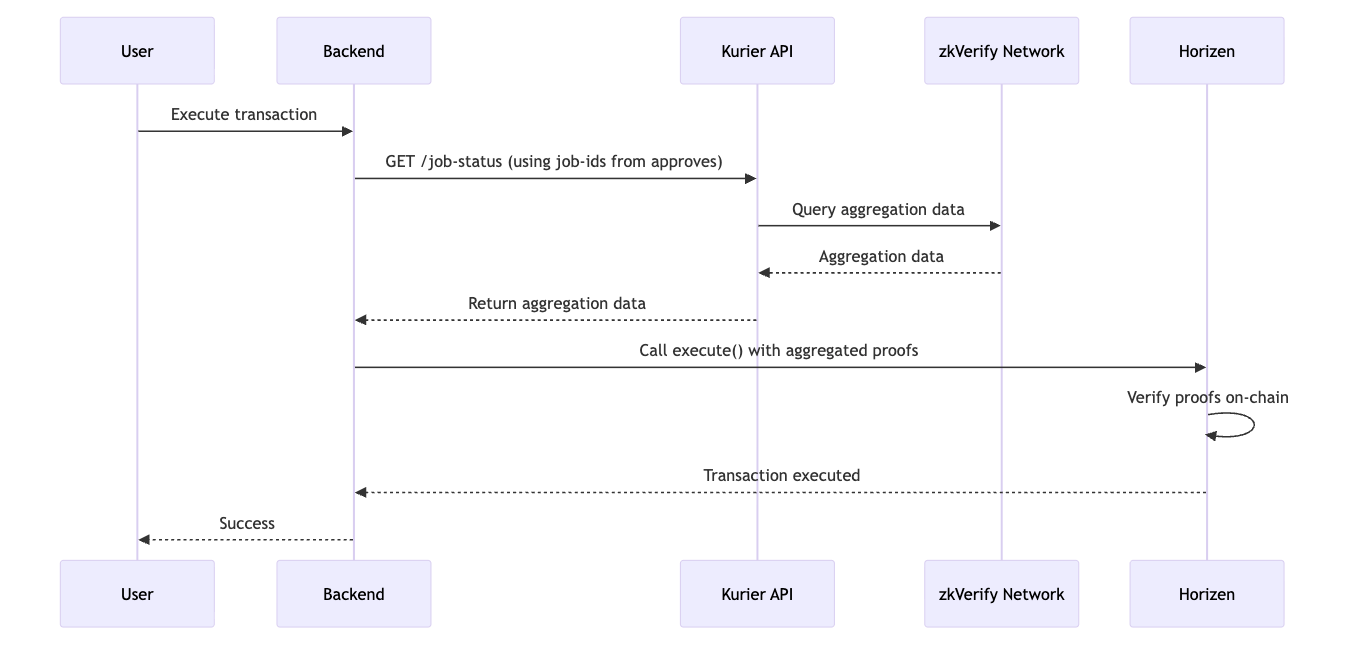
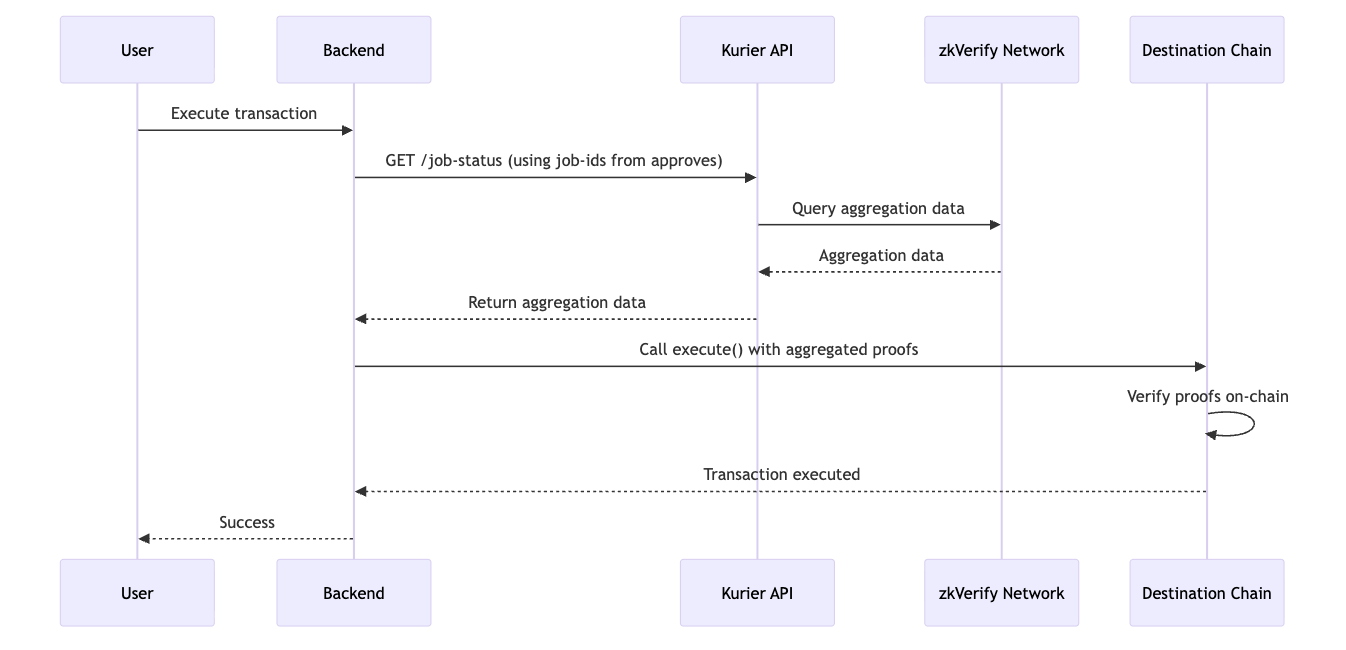
Docs for multi-chain Support, Performance Optimization & Build Fixes (#202)
* refactor: streamline CSV generation and enhance sidebar z-index for improved UI layering

* Update/docs base (#192)

* feat: support multi-chain deployment with Horizen and Base in documentation updates

* docs: clarify destination chain definition and update flow diagrams for Horizen and Base integration

* perf: transpile @polypay/shared to reduce first load JS from 2.3MB to <500KB (#198)

* Fix/hot fix build error (#199)

* feat: enhance build process and fix ESM imports

- Updated build script to include a new script for fixing ESM imports.
- Added `fix-esm-imports.cjs` script to automatically append `.js` to import paths in the `dist` directory.
- Refactored import statements across various files to use index files for better organization.

* Introduced an ADR for migrating the  package from CommonJS to ESM.

---------

diff --git a/packages/backend/src/partner/partner.service.ts b/packages/backend/src/partner/partner.service.ts
@@ -49,15 +49,15 @@ export class PartnerService {
     const totalLine = [`Total Accounts,${accounts.length}`, ''];
 
     const header = includeChainId
-      ? 'address,created_at,chain_id,chain_name'
-      : 'address,created_at';
+      ? 'Address,Explorer Address,Created At,Chain ID,Chain Name'
+      : 'Address,Explorer Address,Created At';
 
     const rows = accounts.map((account) => {
       const addressLink = this.getExplorerAddressUrl(
         account.chainId,
         account.address,
       );
-      const base = `${addressLink},${account.createdAt.toISOString()}`;
+      const base = `${account.address},${addressLink},${account.createdAt.toISOString()}`;
       if (includeChainId) {
         let chainName: string;
         try {

diff --git a/packages/shared/src/index.ts b/packages/shared/src/index.ts
@@ -1,26 +1,9 @@
-// Enums
-export * from "./enums";
-
-// Types
-export * from "./types";
-
-// DTOs
-export * from "./dto";
-
-// Utils
-export * from "./utils";
-
-// Chains
-export * from "./chains";
-
-// Contracts
-export * from "./contracts";
-
-// Constants
-export * from "./constants";
-
-// Crypto
-export * from "./crypto";
-
-// API
-export * from "./api";
+export * from "./enums/index";
+export * from "./types/index";
+export * from "./dto/index";
+export * from "./utils/index";
+export * from "./chains/index";
+export * from "./contracts/index";
+export * from "./constants/index";
+export * from "./crypto/index";
+export * from "./api/index";

diff --git a/packages/shared/src/dto/index.ts b/packages/shared/src/dto/index.ts
@@ -1,10 +1,10 @@
-export * from "./user";
-export * from "./account";
-export * from "./transaction";
-export * from "./batch-item";
-export * from "./contact-book";
-export * from "./notification";
-export * from "./auth";
-export * from "./feature-request";
+export * from "./user/index";
+export * from "./account/index";
+export * from "./transaction/index";
+export * from "./batch-item/index";
+export * from "./contact-book/index";
+export * from "./notification/index";
+export * from "./auth/index";
+export * from "./feature-request/index";
 export * from "./pagination.dto";
-export * from "./reward";
+export * from "./reward/index";

diff --git a/packages/backend/src/partner/partner.controller.ts b/packages/backend/src/partner/partner.controller.ts
@@ -24,10 +24,7 @@ export class PartnerController {
   })
   @ApiResponse({ status: 200, description: 'CSV file' })
   @ApiResponse({ status: 401, description: 'Unauthorized - Invalid API key' })
-  async getAccountReport(
-    @Query() dto: AccountReportDto,
-    @Res() res: Response,
-  ) {
+  async getAccountReport(@Query() dto: AccountReportDto, @Res() res: Response) {
     const csv = await this.partnerService.generateAccountReport(dto);
 
     res.setHeader('Content-Type', 'text/csv');

diff --git a/packages/nextjs/components/contact-book/ContactPicker.tsx b/packages/nextjs/components/contact-book/ContactPicker.tsx
@@ -75,7 +75,7 @@ export function ContactPicker({ accountId, onSelect, disabled }: ContactPickerPr
       {isOpen && (
         <div
           ref={dropdownRef}
-          className="fixed w-80 bg-white rounded-2xl shadow-lg border border-grey-100 z-50"
+          className="fixed w-80 bg-white rounded-2xl shadow-lg border border-grey-100 z-[101]"
           style={{
             top: `${position.top}px`,
             left: `${position.left}px`,

diff --git a/packages/nextjs/components/Sidebar/NetworkChooserSidebar.tsx b/packages/nextjs/components/Sidebar/NetworkChooserSidebar.tsx
@@ -23,7 +23,7 @@ export default function NetworkChooserSidebar({ isOpen, accounts, onSelectNetwor
   return (
     <div
       className={`
-        absolute left-full top-0 z-50 ml-3
+        absolute left-full top-0 z-[1000] ml-3
         w-[330px] h-full bg-main-white rounded-lg p-3 flex flex-col gap-[15px]
         shadow-[4px_0px_24px_rgba(0,0,0,0.1)]
         transform transition-all duration-300 ease-in-out

diff --git a/packages/nextjs/components/Sidebar/ManageAccountsSidebar.tsx b/packages/nextjs/components/Sidebar/ManageAccountsSidebar.tsx
@@ -41,7 +41,7 @@ export default function ManageAccountsSidebar({
   return (
     <div
       className={`
-      absolute left-full top-0 z-[100]
+      absolute left-full top-0 z-[1000]
       w-[330px] h-full bg-main-white rounded-lg p-3 flex flex-col gap-[15px]
       shadow-[4px_0px_24px_rgba(0,0,0,0.1)]
       transform transition-all duration-300 ease-in-out

diff --git a/packages/shared/src/dto/transaction/create-transaction.dto.ts b/packages/shared/src/dto/transaction/create-transaction.dto.ts
@@ -9,8 +9,8 @@ import {
   IsString,
   Min,
 } from "class-validator";
-import { TxType } from "../../enums";
-import { SignerData } from "../../types";
+import { TxType } from "../../enums/index";
+import { SignerData } from "../../types/index";
 
 export class CreateTransactionDto {
   @IsNotEmpty()

diff --git a/packages/nextjs/next.config.ts b/packages/nextjs/next.config.ts
@@ -8,6 +8,7 @@ const __dirname = path.dirname(__filename);
 const nextConfig: NextConfig = {
   reactStrictMode: true,
   devIndicators: false,
+  transpilePackages: ["@polypay/shared"],
   typescript: {
     ignoreBuildErrors: false,
   },

diff --git a/packages/shared/src/dto/account/create-account.dto.ts b/packages/shared/src/dto/account/create-account.dto.ts
@@ -7,7 +7,7 @@ import {
   IsString,
   Min,
 } from "class-validator";
-import { SignerData } from "../../types";
+import { SignerData } from "../../types/index";
 
 export class CreateAccountDto {
   @IsNotEmpty()

diff --git a/packages/shared/src/types/socket-events.ts b/packages/shared/src/types/socket-events.ts
@@ -1,4 +1,4 @@
-import { TxType, TxStatus, VoteType } from "../enums";
+import { TxType, TxStatus, VoteType } from "../enums/index";
 import { Vote } from "./vote";
 
 export interface TxCreatedEventData {

diff --git a/packages/shared/src/types/transaction.ts b/packages/shared/src/types/transaction.ts
@@ -1,4 +1,4 @@
-import { TxType, TxStatus } from "../enums";
+import { TxType, TxStatus } from "../enums/index";
 import { Contact } from "./contact-book";
 import { Vote } from "./vote";
 
